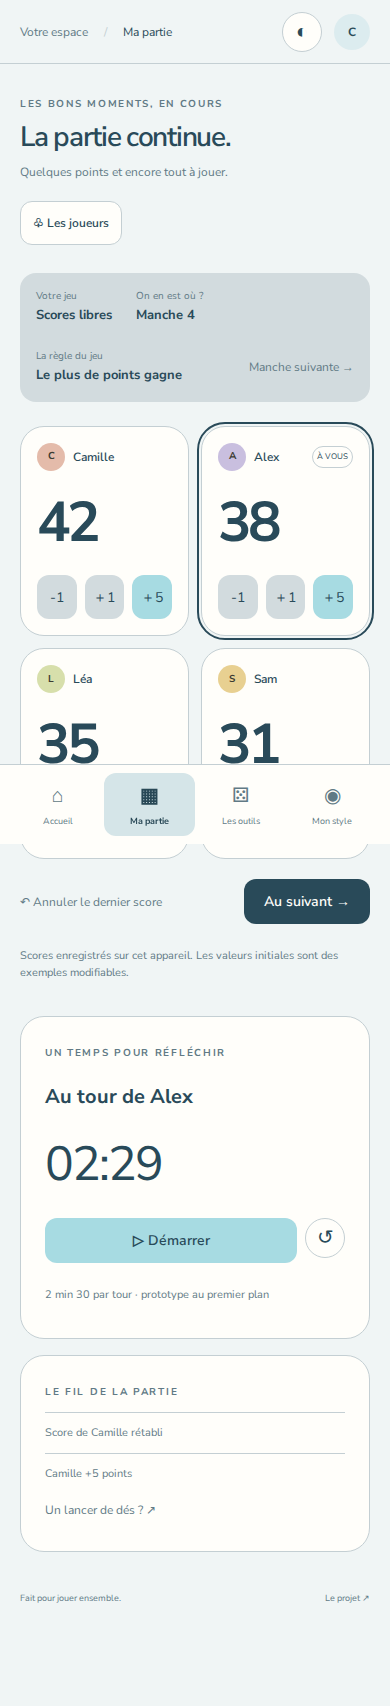
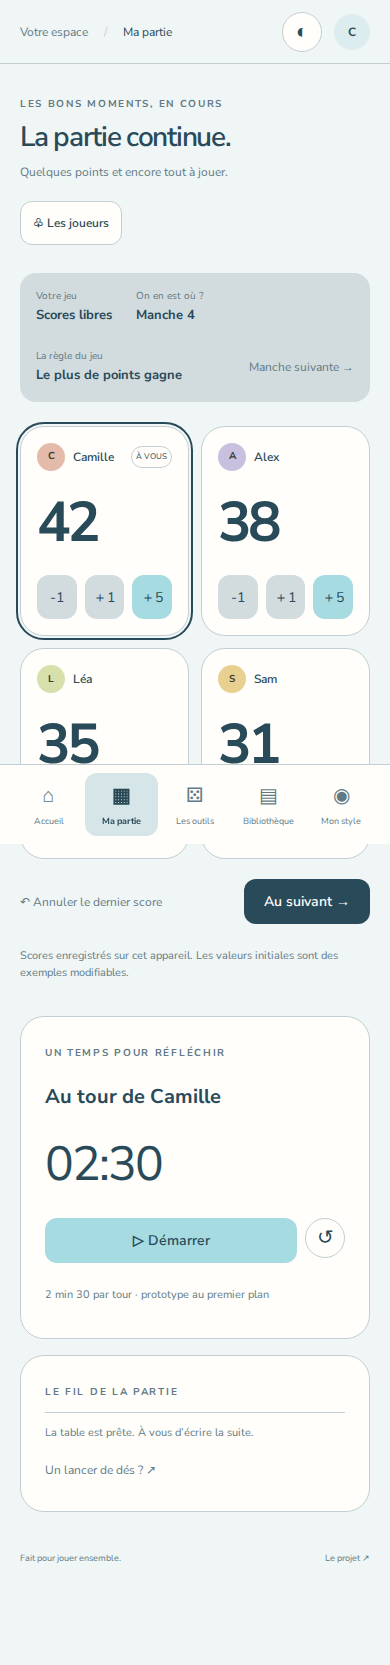
Verify public mockups and refresh mobile previews

diff --git a/prototype/README.md b/prototype/README.md
@@ -25,3 +25,5 @@ Le minuteur n’est pas une alarme système ; il s’arrête au départ de la pa
 ## Vérifications
 
 Navigation des six écrans, conservation des thèmes après rechargement, profil enregistré, ajout/annulation de points, passage de tour, minuteur, dés, équipes et recherche du catalogue testés dans Chromium. Affichage vérifié à 1440 px et 390 px, sans débordement horizontal sur les quatre écrans principaux mobiles. Captures dans design/mockups. Les appareils iOS/Android physiques et les lecteurs d’écran restent à vérifier.
+
+Validation complémentaire : application des profils, export de thème, import valide et rejet des fichiers invalides. Le lien public et ses 140 entrées ont été vérifiés sans erreur JavaScript. Bibliothèque accessible dans la navigation mobile.
